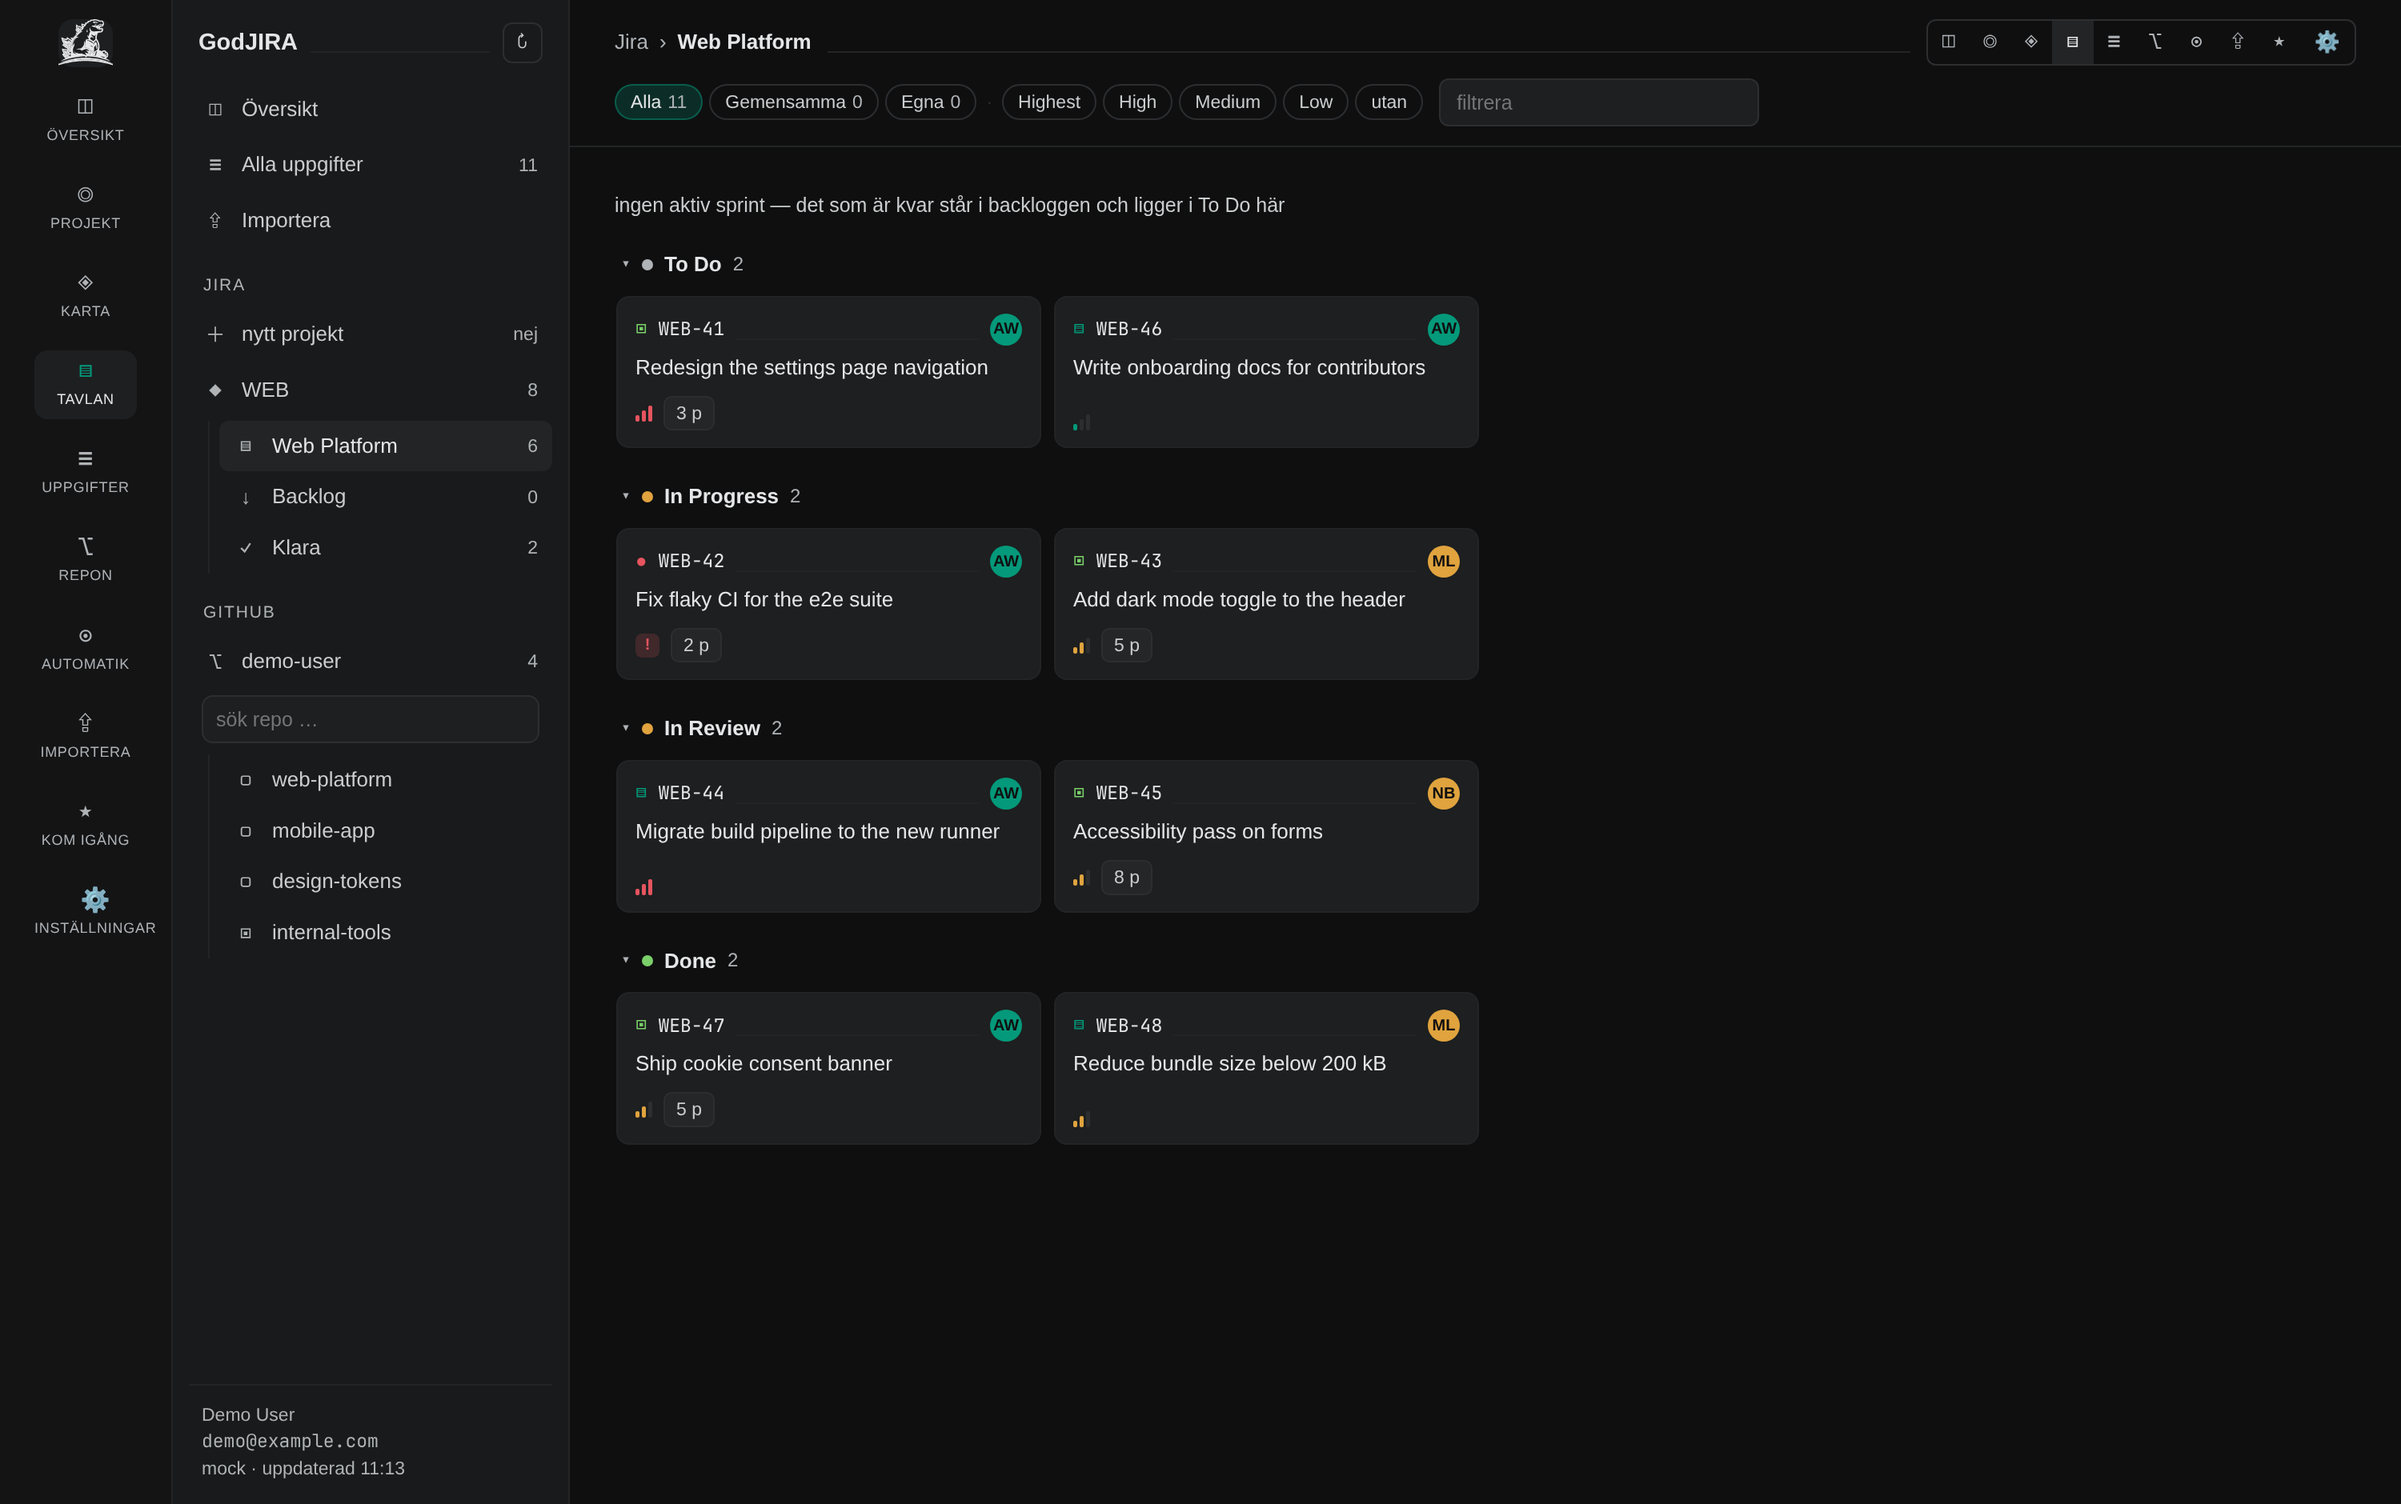
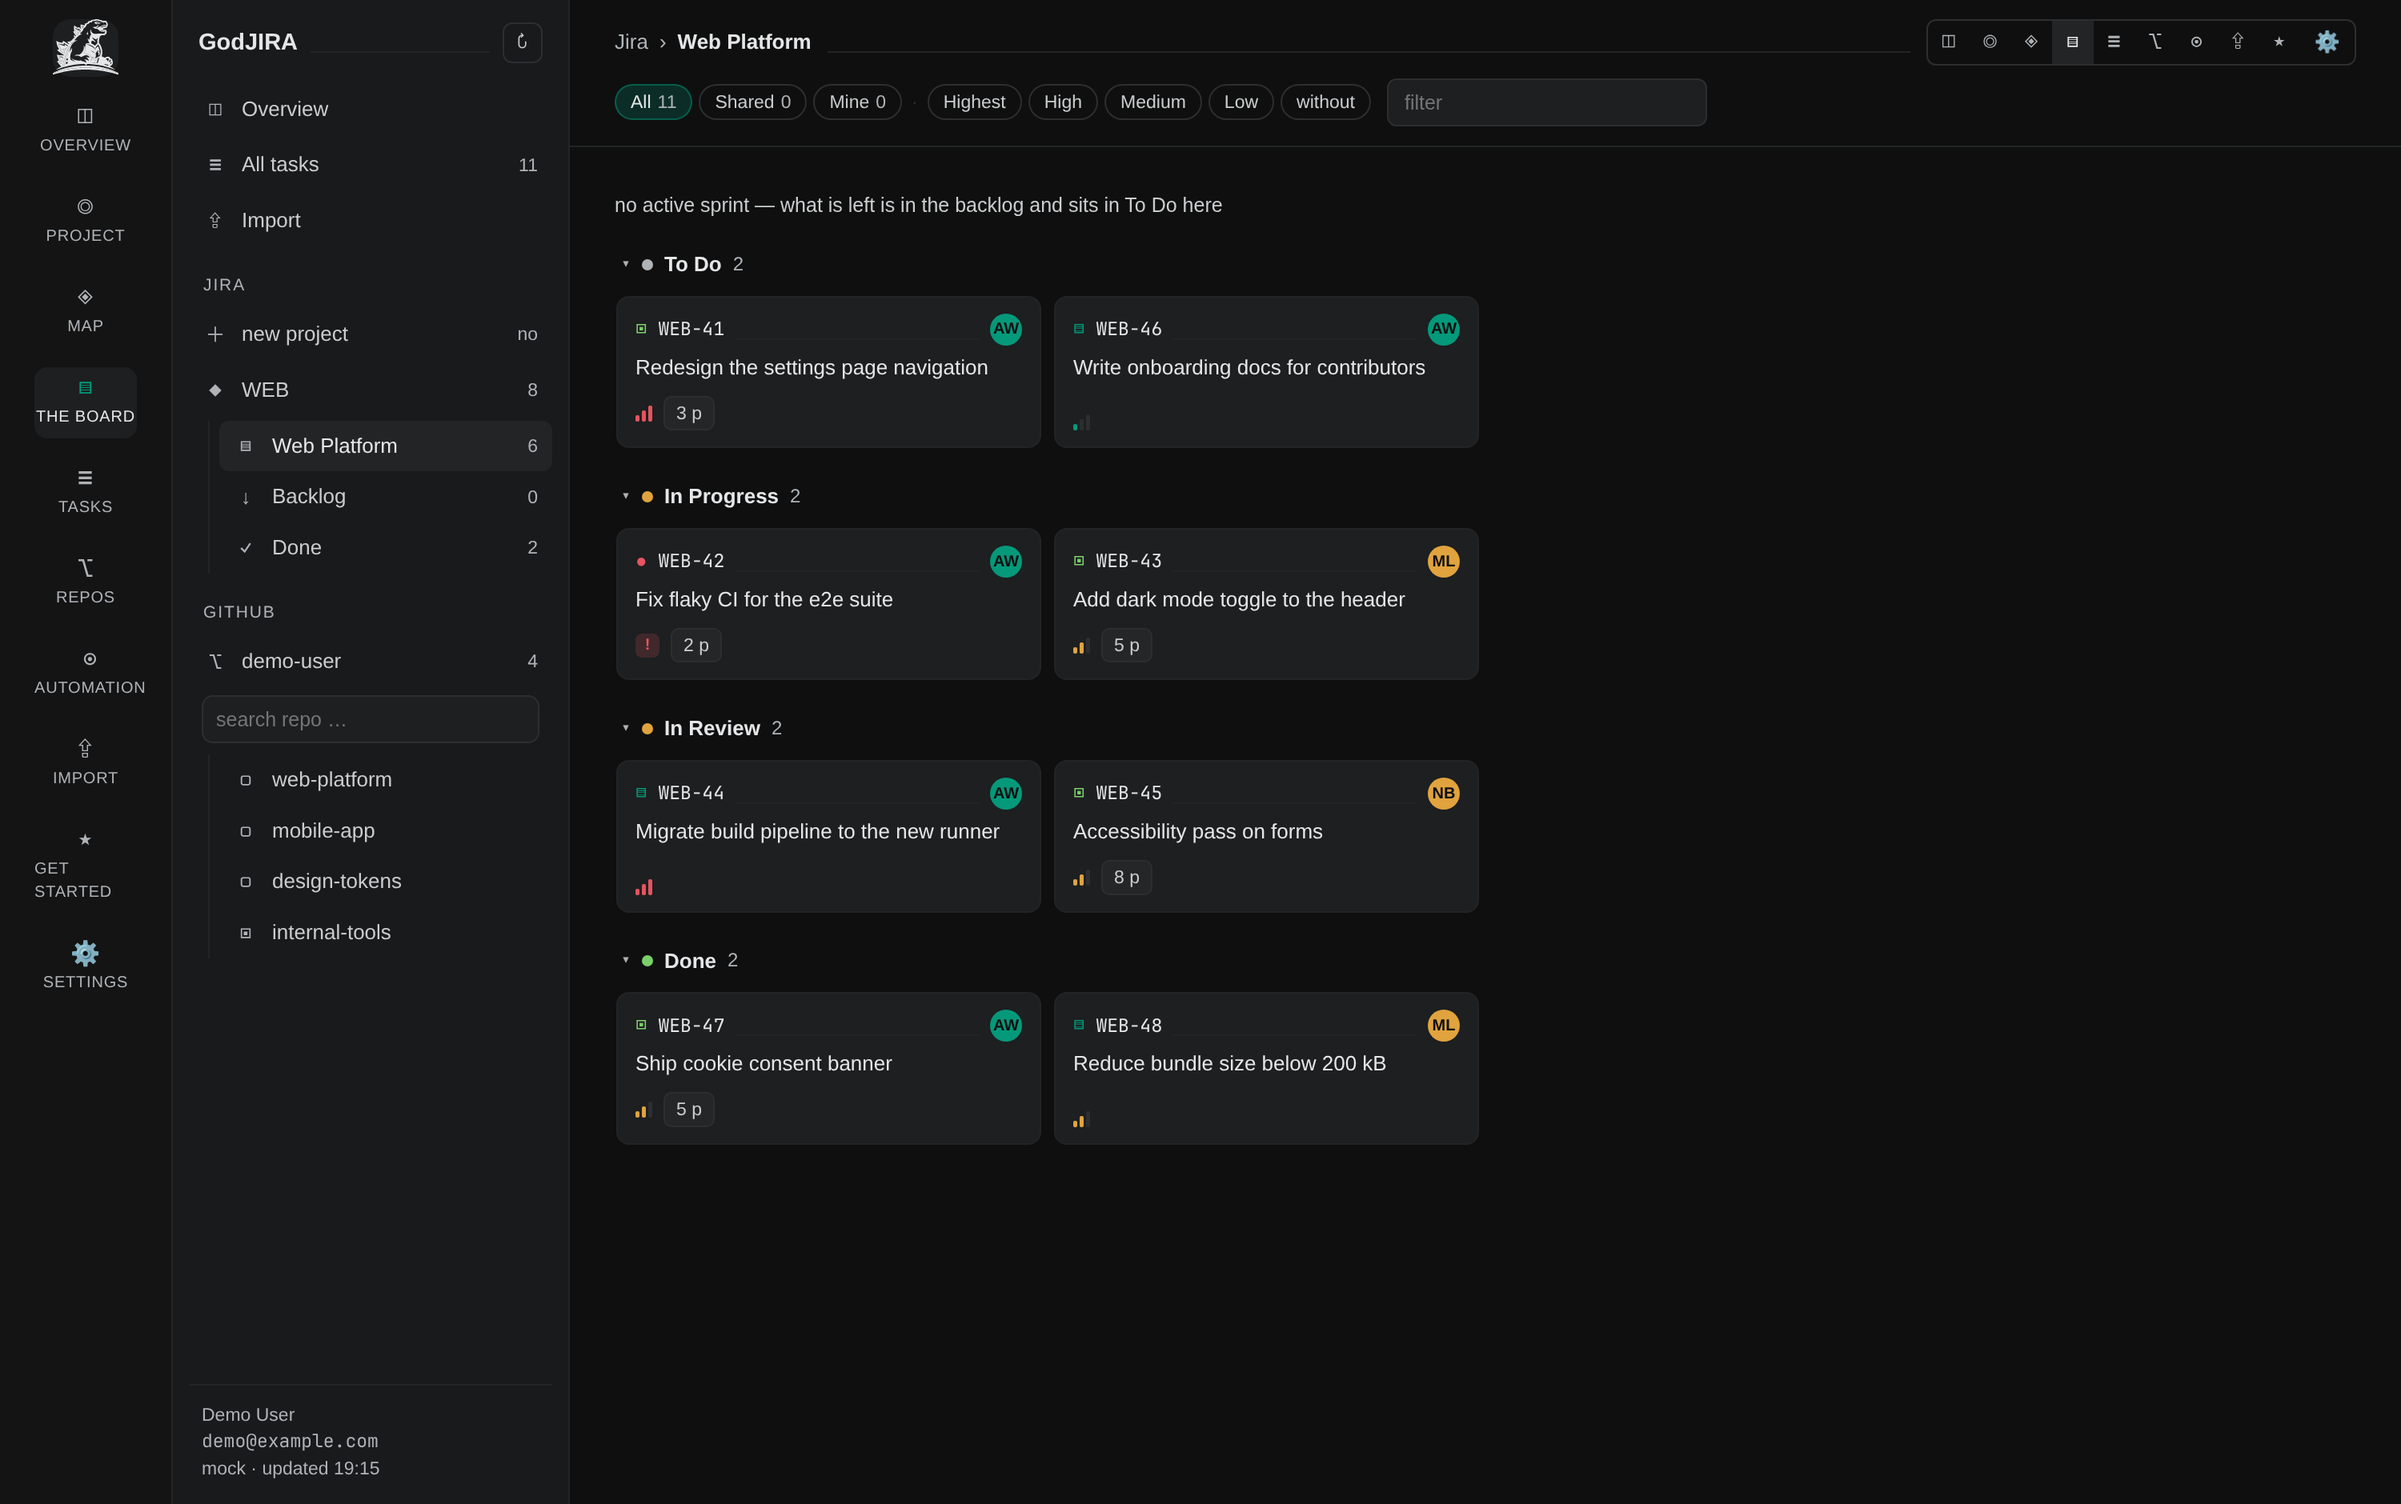
Snygga till: logotypen storre, typgolvet, fokusringen
Logotypen tva stallen: splash-markat 68 -> 84 px, och chipet i ralen 34x30 ->
41x36. Chipets mask ar hardert av motivets hojdforhallande, sa 39px blev 47px
(36 / 0,7625) -- utan den rakningen beskars odjuret. Kommentaren som forklarar
rakningen ar uppdaterad, den ar en kalibreringsratt och skall inte gissas om.

Provade 46x40 forst och tittade pa det: odjuret spillde utanfor chippets kanter
och chippet blev for tungt for ralen. 41x36 ar den storlek som ar granskad och
godkand, sa den star kvar.

Typgolvet: 12 olika typsnittsstorlekar hade vuxit fram, fyra av dem under 10px
(9px och 9.5px pa badges och datum). Nu 10 olika, och ingenting under 10px.
Halvpixlarna 12.5/11.5/14.5 star kvar med flit: att knuffa dem en halv pixel
skulle kunna valta etiketter som ar matt till sin bredd (ralens "Importera" ar
56,6px i en 64px-ruta).

En fokusring for tangentbordet (:focus-visible med !important, for .inp:focus
vinner annars pa specificitet). Musen tander den inte.

README:s sex bilder omtagna mot samma kod. Bilderna granskas genom att hasharna
maste skilja sig -- i forsta forsoket gjorde de inte det, tva och tva var samma
fil, och en fil som hette en-overview visade tavlan.

diff --git a/panel/index.html b/panel/index.html
@@ -83,7 +83,7 @@ try { const t = localStorage.getItem("godjira-theme"); if (t) document.documentE
   @keyframes spin { to { transform: rotate(360deg); } }
   /* Märket ligger i assets/godjira.svg (beskuret från A4-sidan i originalet: motivet
      låg utanför sin egen viewBox och syntes inte alls förrän det beskars). */
-  .logo { height: 68px; width: auto; }
+  .logo { height: 84px; width: auto; }
   /* Märket är tvåfärgat i originalet (teal + marinblå): här blir det en färg -- svart i
      ljust tema, vitt i mörkt. brightness(0) gör allt svart, invert(1) vänder det till
      vitt. Utan data-theme följer panelen skrivbordet, därför media-frågan; ett eget val
@@ -116,7 +116,7 @@ try { const t = localStorage.getItem("godjira-theme"); if (t) document.documentE
   ::-webkit-scrollbar-corner { background: transparent; }
   /* -------------------------------------------------------- repot ------ */
   /* Raden är klickbar: hela repot öppnas, inte bara namnet. */
-  .badge { font-size: 9.5px; letter-spacing: .07em; text-transform: uppercase; white-space: nowrap;
+  .badge { font-size: 10px; letter-spacing: .07em; text-transform: uppercase; white-space: nowrap;
            border: 1px solid var(--line-3); border-radius: 999px; padding: 1px 6px; color: var(--muted); }
   .badge.on { color: var(--accent); border-color: var(--accent); }
   /* Blocken i en vy behöver samma rytm som vyn själv har mellan sig. */
@@ -150,11 +150,11 @@ try { const t = localStorage.getItem("godjira-theme"); if (t) document.documentE
   .gmon { position: absolute; top: 0; bottom: 0; padding-left: 5px; border-left: 1px solid var(--line-2);
           color: var(--muted); font-size: 10px; font-style: normal; letter-spacing: .06em; text-transform: uppercase; }
   .gtoday { position: absolute; top: 0; bottom: 0; width: 0; border-left: 1px dashed var(--accent); }
-  .gtoday b { position: absolute; bottom: 0; left: 3px; color: var(--accent); font-size: 9.5px;
+  .gtoday b { position: absolute; bottom: 0; left: 3px; color: var(--accent); font-size: 10px;
               font-weight: 500; letter-spacing: .05em; }
   .gnone { position: absolute; top: 4px; left: 6px; font-size: 11px; }
   .gbar { position: absolute; top: 6px; height: 11px; padding: 0 6px; border-radius: 6px; background: var(--accent);
-          color: var(--bg); font-size: 9.5px; font-style: normal; line-height: 11px; white-space: nowrap; overflow: hidden; }
+          color: var(--bg); font-size: 10px; font-style: normal; line-height: 11px; white-space: nowrap; overflow: hidden; }
   .gbar.sprint { background: color-mix(in oklab, var(--accent) 32%, var(--line-3)); color: var(--text); }
   .gbar.sprint.on { background: var(--accent); color: var(--bg); }
 
@@ -216,6 +216,9 @@ try { const t = localStorage.getItem("godjira-theme"); if (t) document.documentE
   .inp { background: var(--panel); color: var(--text); border: 1px solid var(--line-2); border-radius: 7px;
          padding: 5px 8px; font: inherit; font-size: 12.5px; }
   .inp:focus { outline: none; border-color: var(--accent); }
+  /* Tangentbordet far en ring, musen ingen: :focus-visible tands inte av ett klick.
+     !important behövs for att .inp:focus (0,2,0) annars vinner over den (0,1,0). */
+  :focus-visible { outline: 2px solid var(--accent); outline-offset: 2px !important; }
   a.chip { text-decoration: none; }
   .mono { font-family: ui-monospace, SFMono-Regular, monospace; font-size: 12px; }
 
@@ -243,9 +246,9 @@ try { const t = localStorage.getItem("godjira-theme"); if (t) document.documentE
   }
   .rail .mark {
     position: relative;
-    width: 34px; height: 30px; border-radius: 9px;
+    width: 41px; height: 36px; border-radius: 11px;
     /* bara odjuret: motivet är 76 % av höjden, ordmärket de sista 21 procenten.
-       Rita om logotypen -> räkna om 39px (30 / 0,7625). ponytail: ett fast mått,
+       Rita om logotypen -> räkna om 47px (36 / 0,7625). ponytail: ett fast mått,
        blir logotypen en annan form får det bli en egen ikonfil i stället. */
     background: var(--panel);
   }
@@ -254,14 +257,14 @@ try { const t = localStorage.getItem("godjira-theme"); if (t) document.documentE
      rutan, chippet inräknat. */
   .rail .mark::before {
     content: ""; position: absolute; inset: 0; background-color: var(--text);
-    -webkit-mask: url(/godjira.svg) center top / auto 39px no-repeat;
-    mask: url(/godjira.svg) center top / auto 39px no-repeat;
+    -webkit-mask: url(/godjira.svg) center top / auto 47px no-repeat;
+    mask: url(/godjira.svg) center top / auto 47px no-repeat;
   }
   .railitem {
     /* 64 = bredaste etiketten ("Importera" 56,6 px) + luft: vid 46 px spillde tre av
        fem etiketter över sin egen ruta, alltså var hover-ytan smalare än sin text. */
     width: 64px; display: grid; place-items: center; gap: 3px; padding: 6px 0; border-radius: 8px;
-    color: var(--muted); cursor: pointer; font-size: 9px; letter-spacing: .04em; text-transform: uppercase;
+    color: var(--muted); cursor: pointer; font-size: 10px; letter-spacing: .04em; text-transform: uppercase;
   }
   .railitem .g { font-size: 15px; line-height: 1; }
   .railitem:hover { background: var(--panel); color: var(--text-2); }
@@ -454,7 +457,7 @@ try { const t = localStorage.getItem("godjira-theme"); if (t) document.documentE
 <body>
 <div class="splash" id="splash">
   <div class="splash-box">
-    <img class="logo" src="/godjira.svg" alt="GodJIRA" height="68">
+    <img class="logo" src="/godjira.svg" alt="GodJIRA" height="84">
     <div class="spin"></div>
     <div class="note" id="splashNote">hämtar Jira, GitHub och flödets nästa …</div>
   </div>
